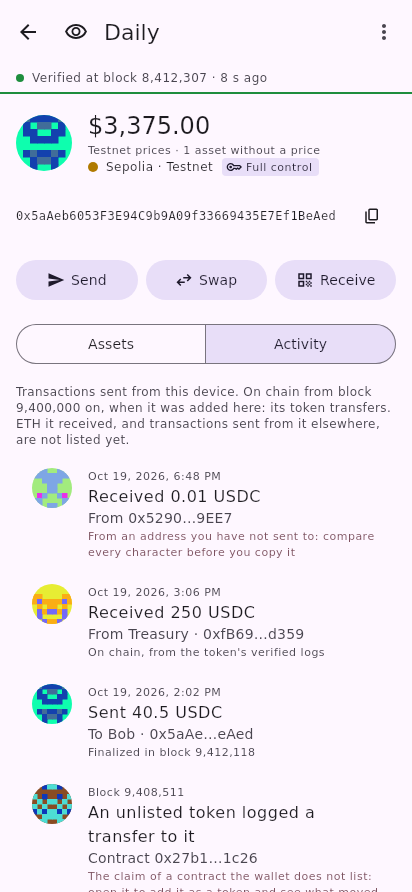
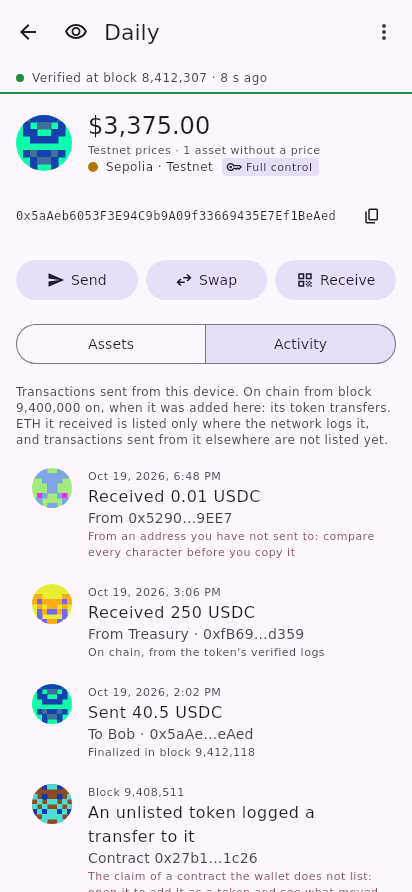
Screenshots: 1 added, 2 changed, 0 removed
Rendered by the Screenshots workflow from 78193d8643b08d915a0adb4e2739e05b6ef7d885. Every other screen draws the same pixels.

Renderer: ubuntu26 20261101.186.1, openjdk version "21.0.13" 2026-10-20 LTS

Changed region(s): [[0.0583, 0.454, 0.9029, 0.5146], [0.9029, 0.4843, 0.932, 0.5146]]

diff --git a/docs/screenshots/index.html b/docs/screenshots/index.html
@@ -111,7 +111,7 @@ figcaption { font: .75rem/1.3 monospace; text-align: center; word-break: break-w
 </div>
 </section>
 <section id="activity-detail">
-<h2>Activity detail <small>activity-detail/ · 10 states</small></h2>
+<h2>Activity detail <small>activity-detail/ · 11 states</small></h2>
 <div class="shots">
 <figure><a href="activity-detail/sent.png"><img src="activity-detail/sent.png" loading="lazy" alt="sent"></a><figcaption>sent</figcaption></figure>
 <figure><a href="activity-detail/sent-dark.png"><img src="activity-detail/sent-dark.png" loading="lazy" alt="sent-dark"></a><figcaption>sent-dark</figcaption></figure>
@@ -123,6 +123,7 @@ figcaption { font: .75rem/1.3 monospace; text-align: center; word-break: break-w
 <figure><a href="activity-detail/unfamiliar-sender.png"><img src="activity-detail/unfamiliar-sender.png" loading="lazy" alt="unfamiliar-sender"></a><figcaption>unfamiliar-sender</figcaption></figure>
 <figure><a href="activity-detail/hidden.png"><img src="activity-detail/hidden.png" loading="lazy" alt="hidden"></a><figcaption>hidden</figcaption></figure>
 <figure><a href="activity-detail/hidden-dark.png"><img src="activity-detail/hidden-dark.png" loading="lazy" alt="hidden-dark"></a><figcaption>hidden-dark</figcaption></figure>
+<figure><a href="activity-detail/eth-logged.png"><img src="activity-detail/eth-logged.png" loading="lazy" alt="eth-logged"></a><figcaption>eth-logged</figcaption></figure>
 </div>
 </section>
 <section id="add-on-networks-dialog">

diff --git a/docs/screenshots/README.md b/docs/screenshots/README.md
@@ -12,7 +12,7 @@ If the folder grows too much, there are two levers, both the owner's. Deleting t
 |---|---|---|
 | [Account detail](#account-detail) | `account-detail/` | 44 |
 | [Accounts](#accounts) | `accounts/` | 35 |
-| [Activity detail](#activity-detail) | `activity-detail/` | 10 |
+| [Activity detail](#activity-detail) | `activity-detail/` | 11 |
 | [Add on networks (dialog)](#add-on-networks-dialog) | `add-on-networks-dialog/` | 5 |
 | [Add token](#add-token) | `add-token/` | 11 |
 | [Connected dApps](#connections) | `connections/` | 6 |
@@ -158,7 +158,7 @@ If the folder grows too much, there are two levers, both the owner's. Deleting t
 <a name="activity-detail"></a>
 ## Activity detail
 
-`activity-detail/`, 10 states: `sent`, `sent-dark`, `unconfirmed`, `unlisted-token`, `safe-event`, `loading`, `unavailable`, `unfamiliar-sender`, `hidden`, `hidden-dark`
+`activity-detail/`, 11 states: `sent`, `sent-dark`, `unconfirmed`, `unlisted-token`, `safe-event`, `loading`, `unavailable`, `unfamiliar-sender`, `hidden`, `hidden-dark`, `eth-logged`
 
 <a href="activity-detail/sent.png"><img src="activity-detail/sent.png" width="206" alt="sent"></a>
 <a href="activity-detail/sent-dark.png"><img src="activity-detail/sent-dark.png" width="206" alt="sent-dark"></a>
@@ -170,6 +170,7 @@ If the folder grows too much, there are two levers, both the owner's. Deleting t
 <a href="activity-detail/unfamiliar-sender.png"><img src="activity-detail/unfamiliar-sender.png" width="206" alt="unfamiliar-sender"></a>
 <a href="activity-detail/hidden.png"><img src="activity-detail/hidden.png" width="206" alt="hidden"></a>
 <a href="activity-detail/hidden-dark.png"><img src="activity-detail/hidden-dark.png" width="206" alt="hidden-dark"></a>
+<a href="activity-detail/eth-logged.png"><img src="activity-detail/eth-logged.png" width="206" alt="eth-logged"></a>
 
 <a name="add-on-networks-dialog"></a>
 ## Add on networks (dialog)
